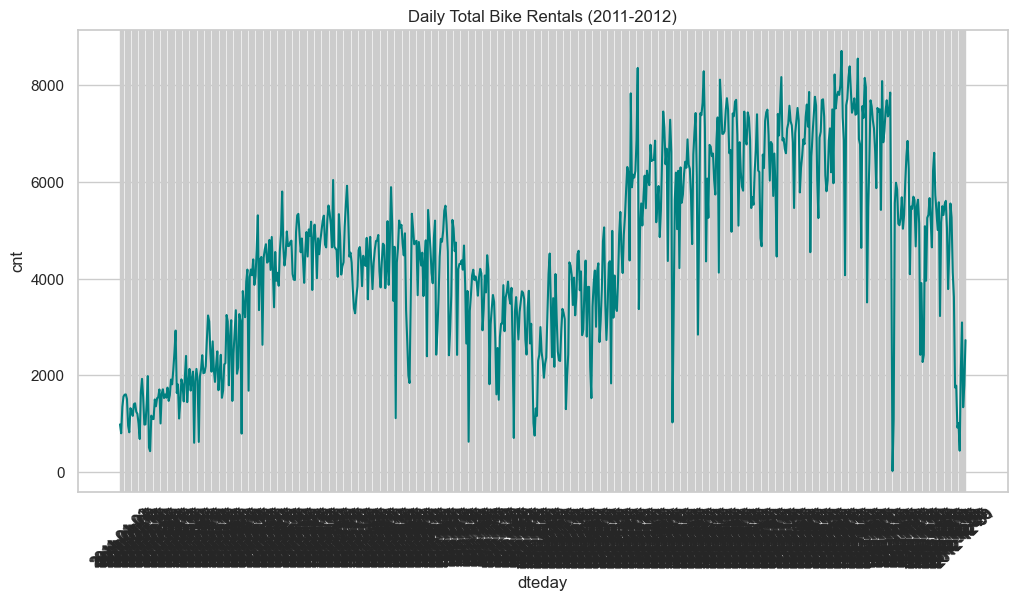
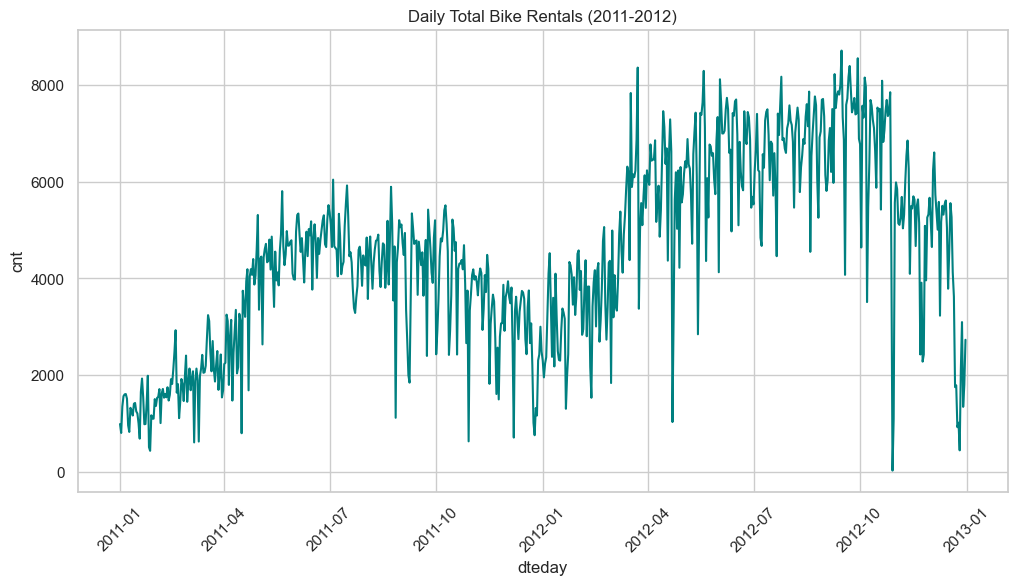
Fix IDE errors and improve robustness in data_processing.py

diff --git a/scripts/data_processing.py b/scripts/data_processing.py
@@ -3,119 +3,188 @@ import numpy as np
 import matplotlib.pyplot as plt
 import seaborn as sns
 import os
-from datetime import datetime
+import logging
+from typing import Optional
 
-# ── Paths ──────────────────────────────────────────────────────────────────
-BASE_DIR = os.path.dirname(os.path.dirname(os.path.abspath(__file__)))
-DATASET_DIR = os.path.join(BASE_DIR, 'Dataset')
-OUTPUT_DIR = os.path.join(BASE_DIR, 'Reports', 'Visualizations')
+# Configure logging
+logging.basicConfig(level=logging.INFO, format='%(asctime)s - %(levelname)s - %(message)s')
+logger = logging.getLogger(__name__)
 
-# ── Load Data ──────────────────────────────────────────────────────────────
-print("📂 Loading datasets...")
-df_hour = pd.read_csv(os.path.join(DATASET_DIR, 'hour.csv'))
-df_day = pd.read_csv(os.path.join(DATASET_DIR, 'day.csv'))
+class BikeSharingProcessor:
+    """
+    Consolidated data processing and EDA for the Bike Sharing Usage Behavior project.
+    Handles data cleaning, feature engineering, and baseline visualization.
+    """
 
-# ── 1. Cleaning Strategy ──────────────────────────────────────────────────
-print("🧹 Cleaning data...")
+    def __init__(self, base_dir: str):
+        self.base_dir = base_dir
+        self.dataset_dir = os.path.join(base_dir, 'Dataset')
+        self.output_dir = os.path.join(base_dir, 'Reports', 'Visualizations')
+        
+        # Ensure output directory exists
+        os.makedirs(self.output_dir, exist_ok=True)
+        
+        self.df_hour: Optional[pd.DataFrame] = None
+        self.df_day: Optional[pd.DataFrame] = None
 
-# 1.1 Handle missing hours in hour.csv (Reindexing)
-df_hour['dteday'] = pd.to_datetime(df_hour['dteday'])
-all_hours = pd.date_range(start=df_hour['dteday'].min(), end=df_hour['dteday'].max(), freq='H')
-# Note: Simple reindexing is complex due to the features, so we'll just log the gaps for now 
-# and ensure cnt=0 if we were to impute. For this EDA, we use the raw hourly distribution.
+        # Configuration Constants
+        self.SEASON_MAP = {1: 'Spring', 2: 'Summer', 3: 'Fall', 4: 'Winter'}
+        self.WEATHER_MAP = {1: 'Clear', 2: 'Mist', 3: 'Light Precip', 4: 'Heavy Precip'}
 
-# 1.2 Flag Hurricane Sandy (Oct 29-31, 2012)
-sandy_mask = (df_day['dteday'] >= '2012-10-29') & (df_day['dteday'] <= '2012-10-31')
-df_day['is_anomaly'] = sandy_mask.astype(int)
+    def load_data(self):
+        """Load raw CSV datasets from the Dataset directory."""
+        logger.info("Loading datasets...")
+        try:
+            self.df_hour = pd.read_csv(os.path.join(self.dataset_dir, 'hour.csv'))
+            self.df_day = pd.read_csv(os.path.join(self.dataset_dir, 'day.csv'))
+            logger.info("Datasets loaded successfully.")
+        except FileNotFoundError as e:
+            logger.error(f"Failed to load dataset: {e}")
+            raise
 
-# 1.3 De-normalization
-df_day['temp_c'] = df_day['temp'] * 41
-df_day['atemp_c'] = df_day['atemp'] * 50
-df_day['hum_pct'] = df_day['hum'] * 100
-df_day['windspeed_kmh'] = df_day['windspeed'] * 67
+    def clean_data(self):
+        """Apply data cleaning strategies including de-normalization and anomaly flagging."""
+        if self.df_hour is None or self.df_day is None:
+            logger.error("DataFrames not loaded. Call load_data() first.")
+            return
 
-df_hour['temp_c'] = df_hour['temp'] * 41
-df_hour['atemp_c'] = df_hour['atemp'] * 50
-df_hour['hum_pct'] = df_hour['hum'] * 100
-df_hour['windspeed_kmh'] = df_hour['windspeed'] * 67
+        # Explicitly narrow type for analyzer
+        df_hour: pd.DataFrame = self.df_hour
+        df_day: pd.DataFrame = self.df_day
 
-# 1.4 Categorical Labeling (for plotting)
-season_map = {1: 'Spring', 2: 'Summer', 3: 'Fall', 4: 'Winter'}
-weather_map = {1: 'Clear', 2: 'Mist', 3: 'Light Precip', 4: 'Heavy Precip'}
-df_day['season_lbl'] = df_day['season'].map(season_map)
-df_day['weather_lbl'] = df_day['weathersit'].map(weather_map)
-df_hour['season_lbl'] = df_hour['season'].map(season_map)
-df_hour['weather_lbl'] = df_hour['weathersit'].map(weather_map)
+        logger.info("Cleaning and pre-processing data...")
+        
+        # 1. Convert dates
+        df_hour['dteday'] = pd.to_datetime(df_hour['dteday'])
+        df_day['dteday'] = pd.to_datetime(df_day['dteday'])
 
-# ── 2. Feature Engineering ───────────────────────────────────────────────
-print("⚙ Engineering features...")
+        # 2. Flag Hurricane Sandy Anomaly (Oct 29-31, 2012)
+        sandy_mask = (df_day['dteday'] >= '2012-10-29') & (df_day['dteday'] <= '2012-10-31')
+        df_day['is_anomaly'] = sandy_mask.astype(int)
 
-# 2.1 Day Segment
-def get_segment(hr):
-    if 0 <= hr < 6: return 'Night'
-    if 6 <= hr < 12: return 'Morning'
-    if 12 <= hr < 18: return 'Afternoon'
-    return 'Evening'
+        # 3. De-normalization of weather/env variables
+        for df in [df_day, df_hour]:
+            df['temp_c'] = df['temp'] * 41
+            df['atemp_c'] = df['atemp'] * 50
+            df['hum_pct'] = df['hum'] * 100
+            df['windspeed_kmh'] = df['windspeed'] * 67
+            
+            # Map categorical labels
+            df['season_lbl'] = df['season'].map(self.SEASON_MAP)
+            df['weather_lbl'] = df['weathersit'].map(self.WEATHER_MAP)
 
-df_hour['day_segment'] = df_hour['hr'].apply(get_segment)
+    def engineer_features(self):
+        """Apply feature engineering for temporal segments and user metrics."""
+        if self.df_hour is None or self.df_day is None:
+            logger.error("DataFrames not loaded. Call load_data() first.")
+            return
+            
+        df_hour: pd.DataFrame = self.df_hour
+        df_day: pd.DataFrame = self.df_day
 
-# 2.2 Peak Hour Flag
-df_hour['is_peak_hour'] = df_hour.apply(lambda x: 1 if (x['workingday'] == 1 and (7 <= x['hr'] <= 9 or 17 <= x['hr'] <= 19)) else 0, axis=1)
+        logger.info("Executing feature engineering blueprint...")
+        
+        # 1. Day Segments (Hourly only)
+        def _get_segment(hr: int) -> str:
+            if 0 <= hr < 6: return 'Night'
+            if 6 <= hr < 12: return 'Morning'
+            if 12 <= hr < 18: return 'Afternoon'
+            return 'Evening'
 
-# 2.3 User Shares
-df_day['casual_share'] = (df_day['casual'] / df_day['cnt']) * 100
-df_day['registered_share'] = (df_day['registered'] / df_day['cnt']) * 100
-df_hour['casual_share'] = (df_hour['casual'] / df_hour['cnt']) * 100
-df_hour['registered_share'] = (df_hour['registered'] / df_hour['cnt']) * 100
+        df_hour['day_segment'] = df_hour['hr'].apply(_get_segment)
 
-# ── 3. Baseline EDA & Visualizations ────────────────────────────────────
-print("📊 Generating visualizations...")
-sns.set_theme(style="whitegrid")
+        # 2. Peak Hour Flag (Commute peaks on workdays)
+        df_hour['is_peak_hour'] = df_hour.apply(
+            lambda x: 1 if (x['workingday'] == 1 and (7 <= x['hr'] <= 9 or 17 <= x['hr'] <= 19)) else 0, 
+            axis=1
+        )
 
-# 3.1 Total Rentals over Time (Trend)
-plt.figure(figsize=(12, 6))
-sns.lineplot(data=df_day, x='dteday', y='cnt', color='teal')
-plt.title('Daily Total Bike Rentals (2011-2012)')
-plt.xticks(rotation=45)
-plt.savefig(os.path.join(OUTPUT_DIR, 'daily_trend.png'), bbox_inches='tight')
-plt.close()
+        # 3. User Type Shares
+        for df in [df_day, df_hour]:
+            df['casual_share'] = (df['casual'] / df['cnt']) * 100
+            df['registered_share'] = (df['registered'] / df['cnt']) * 100
 
-# 3.2 Hourly Patterns by Day Type
-plt.figure(figsize=(12, 6))
-sns.pointplot(data=df_hour, x='hr', y='cnt', hue='workingday', palette='viridis')
-plt.title('Average Hourly Rentals: Workday (1) vs Weekend/Holiday (0)')
-plt.savefig(os.path.join(OUTPUT_DIR, 'hourly_pattern.png'), bbox_inches='tight')
-plt.close()
+    def generate_eda(self):
+        """Generate and save baseline visualizations to the Reports directory."""
+        if self.df_hour is None or self.df_day is None:
+            logger.error("DataFrames not loaded. Call load_data() first.")
+            return
 
-# 3.3 Weather Impact (Temperature vs Count)
-plt.figure(figsize=(10, 6))
-sns.scatterplot(data=df_day, x='temp_c', y='cnt', hue='weather_lbl', palette='coolwarm')
-plt.title('Impact of Temperature and Weather Situation on Rentals')
-plt.savefig(os.path.join(OUTPUT_DIR, 'weather_impact.png'), bbox_inches='tight')
-plt.close()
+        df_hour: pd.DataFrame = self.df_hour
+        df_day: pd.DataFrame = self.df_day
 
-# 3.4 Seasonal Distribution (Casual vs Registered)
-df_seasonal = df_day.groupby('season_lbl')[['casual', 'registered']].sum().reset_index()
-df_seasonal = df_seasonal.melt(id_vars='season_lbl', var_name='User Type', value_name='Total Rentals')
+        logger.info("Generating EDA visualizations...")
+        sns.set_theme(style="whitegrid")
 
-plt.figure(figsize=(10, 6))
-sns.barplot(data=df_seasonal, x='season_lbl', y='Total Rentals', hue='User Type', palette='muted')
-plt.title('Seasonal Distribution: Casual vs Registered Users')
-plt.savefig(os.path.join(OUTPUT_DIR, 'seasonal_distribution.png'), bbox_inches='tight')
-plt.close()
+        # Visual 1: Daily Total Trend
+        plt.figure(figsize=(12, 6))
+        sns.lineplot(data=df_day, x='dteday', y='cnt', color='teal')
+        plt.title('Daily Total Bike Rentals (2011-2012)')
+        plt.xticks(rotation=45)
+        plt.savefig(os.path.join(self.output_dir, 'daily_trend.png'), bbox_inches='tight')
+        plt.close()
 
-# ── 4. Save Cleaned Data ────────────────────────────────────────────────
-print("💾 Saving cleaned datasets...")
-df_day.to_csv(os.path.join(DATASET_DIR, 'cleaned_day.csv'), index=False)
-df_hour.to_csv(os.path.join(DATASET_DIR, 'cleaned_hour.csv'), index=False)
+        # Visual 2: Hourly Patterns
+        plt.figure(figsize=(12, 6))
+        sns.pointplot(data=df_hour, x='hr', y='cnt', hue='workingday', palette='viridis')
+        plt.title('Average Hourly Rentals: Workday vs Weekend/Holiday')
+        plt.savefig(os.path.join(self.output_dir, 'hourly_pattern.png'), bbox_inches='tight')
+        plt.close()
 
-# ── 5. Data Quality Report Summary ──────────────────────────────────────
-print("\n📝 Data Quality Report Summary")
-print("-" * 30)
-print(f"Total Daily Records: {len(df_day)}")
-print(f"Total Hourly Records: {len(df_hour)}")
-print(f"Anomalous Days (Sandy): {df_day['is_anomaly'].sum()}")
-print(f"Missing Values: {df_hour.isnull().sum().sum()}")
-print(f"Duplicates: {df_hour.duplicated().sum()}")
-print("-" * 30)
-print("✅ Processing complete!")
+        # Visual 3: Weather/Temp Impact
+        plt.figure(figsize=(10, 6))
+        sns.scatterplot(data=df_day, x='temp_c', y='cnt', hue='weather_lbl', palette='coolwarm')
+        plt.title('Environmental Impact on Rental Counts')
+        plt.savefig(os.path.join(self.output_dir, 'weather_impact.png'), bbox_inches='tight')
+        plt.close()
+
+        # Visual 4: Seasonal Distribution
+        df_seasonal = df_day.groupby('season_lbl')[['casual', 'registered']].sum().reset_index()
+        df_seasonal = df_seasonal.melt(id_vars='season_lbl', var_name='User Type', value_name='Total Rentals')
+        plt.figure(figsize=(10, 6))
+        sns.barplot(data=df_seasonal, x='season_lbl', y='Total Rentals', hue='User Type', palette='muted')
+        plt.title('Seasonal User Segmentation')
+        plt.savefig(os.path.join(self.output_dir, 'seasonal_distribution.png'), bbox_inches='tight')
+        plt.close()
+
+    def save_results(self):
+        """Save cleaned datasets to CSV files."""
+        if self.df_hour is None or self.df_day is None:
+            logger.error("DataFrames not loaded. Call load_data() first.")
+            return
+
+        logger.info("Saving cleaned datasets...")
+        self.df_day.to_csv(os.path.join(self.dataset_dir, 'cleaned_day.csv'), index=False)
+        self.df_hour.to_csv(os.path.join(self.dataset_dir, 'cleaned_hour.csv'), index=False)
+        logger.info("Data export complete.")
+
+    def run_pipeline(self):
+        """Execute the full processing pipeline."""
+        self.load_data()
+        self.clean_data()
+        self.engineer_features()
+        self.generate_eda()
+        self.save_results()
+        
+        # Summary Report
+        if self.df_hour is not None and self.df_day is not None:
+            df_hour: pd.DataFrame = self.df_hour
+            df_day: pd.DataFrame = self.df_day
+            print("\nDATA QUALITY REPORT SUMMARY")
+            print("=" * 30)
+            print(f"Total Daily Records        : {len(df_day)}")
+            print(f"Total Hourly Records       : {len(df_hour)}")
+            print(f"Anomalous Days (Sandy)     : {df_day['is_anomaly'].sum()}")
+            print(f"Null Values Detected       : {df_hour.isnull().sum().sum()}")
+            print(f"Duplicate Rows Detected    : {df_hour.duplicated().sum()}")
+            print("=" * 30)
+            logger.info("Processing pipeline executed successfully.")
+        else:
+            logger.error("Pipeline failed: DataFrames are missing.")
+
+if __name__ == "__main__":
+    # Define project root (one level up from scripts directory)
+    project_root = os.path.dirname(os.path.dirname(os.path.abspath(__file__)))
+    
+    processor = BikeSharingProcessor(base_dir=project_root)
+    processor.run_pipeline()
